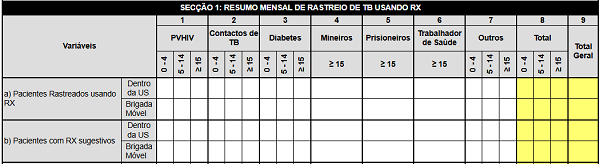
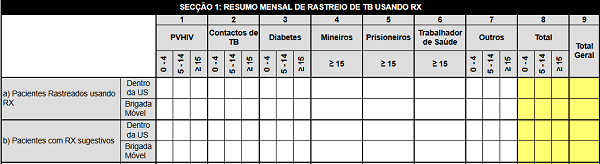
HTML: Actualizei o artigo 'Sobre' e a prévia do totalizador.

Changed region(s): [[0.0, 0.0, 1.0, 1.0], [0.54, 0.3659, 0.6, 0.4268], [0.63, 0.3659, 0.66, 0.4268]]

diff --git a/index.html b/index.html
@@ -129,7 +129,7 @@
                 <section class="ficha__seccao ficha__seccao--1 --border-b">
                     <h1 class="ficha__seccao__titulo ficha__seccao__titulo--main --fw-700">SECÇÃO 1: RESUMO MENSAL DE RASTREIO DE TB USANDO RX</h1>
                     <header class="ficha__seccao__header ficha__seccao__header--s1 --border-t --border-b-thick --fw-700">
-                        <div class="ficha__seccao-1__col-variaveis --display-flex-xy-center --bg-default"><span>Variáveis</span></div>
+                        <div class="ficha__seccao-1__col-variaveis --display-flex-xy-center"><span class="--display-none">Variáveis</span></div>
                         <div class="ficha__grid-template-rows-3 --bg-default">
                             <div class="--display-flex-xy-center --border-l-thick --border-b"><span>1</span></div>
                             <div class="--display-flex-xy-center --border-l-thick --border-b"><span>PVHIV</span></div>
@@ -654,6 +654,7 @@
                     <img alt="Totalizador de Resumo Mensal de Rastreio de TB usando RX" src=imagens/totalizador-de-resumo-mensal-de-rastreio-de-tb-usando-rx.png class="artigo__img artigo__img--center">
                 </figure>
                 <p>O <strong>Totalizador de Resumo Mensal de Rastreio de TB usando RX</strong> é um serviço online gratuito que auxilia na elaboração do resumo mensal de rastreio de TB usando Raio X (RX) por meio do cálculo automático dos totais com base nos dados inseridos pelo usuário. Foi desenvolvido de acordo com o modelo da <a href="fichamodelo/mod-sis-pnct-provisorio.pdf" target="_blank">respectiva ficha de resumo mensal</a> actualmente vigente no Serviço Nacional de Saúde em Moçambique.</p>
+                <p class="info-content info-content--no-shadow">Tal qual no formulário do <a href="https://sisma.misau.gov.mz/" target="_blank">SIS-MA</a>, neste totalizador, os indicadores a), b), c) e d) da secção "1" estão discriminados em "Dentro da US" e "Brigada Móvel", embora no <a href="fichamodelo/mod-sis-pnct-provisorio.pdf" target="_blank">formulário físico</a> não estejam discriminados.</p>
                 <h3 class="artigo__titulo artigo__titulo--nivel-2">Objectivos</h3>
                 <ul class="artigo__lista artigo__lista--ul">
                     <li>Auxiliar os profissionais de saúde na totalização do resumo mensal de rastreio de TB usando RX com exatidão e prontidão;</li>
